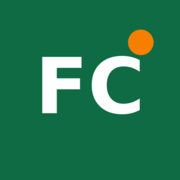
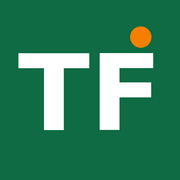
refactor: retour du nom TesFacture
- Interface, PDF, e-mails, manifest, service worker et README : « FactureCI » → « TesFacture »
- Wordmark du logo (TF) et icônes PWA régénérées
- Nom de package npm et clés techniques (__tesfactureDb, files d'attente, cache) alignés
- Données existantes renommées en base (administrateur, entreprise)

Changed region(s): [[0.5, 0.1389, 0.8611, 0.7222], [0.0833, 0.2778, 0.5, 0.75]]

diff --git a/app/page.tsx b/app/page.tsx
@@ -50,10 +50,10 @@ export default function LandingPage() {
         <div className="mx-auto flex h-16 max-w-6xl items-center justify-between px-4">
           <Link href="/" className="flex items-center gap-2">
             <span className="grid size-9 place-items-center rounded-xl bg-brand-500 text-[13px] font-black text-white">
-              FC
+              TF
             </span>
             <span className="text-[17px] font-extrabold tracking-tight">
-              Facture<span className="text-accent-500">CI</span>
+              Tes<span className="text-accent-500">Facture</span>
             </span>
           </Link>
 
@@ -85,7 +85,7 @@ export default function LandingPage() {
                 prêtes en 2 minutes.
               </h1>
               <p className="mt-4 max-w-lg text-[16px] leading-relaxed text-slate-600">
-                FactureCI crée vos factures, devis et bons de livraison depuis votre téléphone.
+                TesFacture crée vos factures, devis et bons de livraison depuis votre téléphone.
                 Paiement en tranches, montant en lettres, envoi WhatsApp, PDF professionnel.
               </p>
 
@@ -228,7 +228,7 @@ export default function LandingPage() {
 
       <footer className="border-t border-black/5 py-8">
         <div className="mx-auto flex max-w-6xl flex-col items-center justify-between gap-2 px-4 text-[12.5px] text-slate-500 sm:flex-row">
-          <p>© {new Date().getFullYear()} FactureCI · Abidjan, Côte d&apos;Ivoire</p>
+          <p>© {new Date().getFullYear()} TesFacture · Abidjan, Côte d&apos;Ivoire</p>
           <p>Montants en FCFA · Fuseau Africa/Abidjan</p>
         </div>
       </footer>

diff --git a/db/client.ts b/db/client.ts
@@ -9,8 +9,8 @@ import * as schema from "./schema";
 export type Db = NodePgDatabase<typeof schema>;
 
 type Global = typeof globalThis & {
-  __factureciDb?: Promise<Db>;
-  __factureciClose?: () => Promise<void>;
+  __tesfactureDb?: Promise<Db>;
+  __tesfactureClose?: () => Promise<void>;
 };
 
 const g = globalThis as Global;
@@ -56,7 +56,7 @@ async function createDb(): Promise<Db> {
       max: 5,
     });
     await runMigrations((sql) => pool.query(sql));
-    g.__factureciClose = async () => {
+    g.__tesfactureClose = async () => {
       await pool.end();
     };
     return drizzlePg(pool, { schema }) as unknown as Db;
@@ -69,7 +69,7 @@ async function createDb(): Promise<Db> {
   const client = new PGlite(dataDir);
   await client.waitReady;
   await runMigrations((sql) => client.exec(sql));
-  g.__factureciClose = async () => {
+  g.__tesfactureClose = async () => {
     await client.close();
   };
   return drizzlePglite(client, { schema }) as unknown as Db;
@@ -77,13 +77,13 @@ async function createDb(): Promise<Db> {
 
 /** Retourne l'instance Drizzle (initialisée et migrée une seule fois). */
 export function getDb(): Promise<Db> {
-  if (!g.__factureciDb) {
-    g.__factureciDb = createDb().catch((error) => {
-      g.__factureciDb = undefined;
+  if (!g.__tesfactureDb) {
+    g.__tesfactureDb = createDb().catch((error) => {
+      g.__tesfactureDb = undefined;
       throw error;
     });
   }
-  return g.__factureciDb;
+  return g.__tesfactureDb;
 }
 
 export { schema };

diff --git a/app/app/page.tsx b/app/app/page.tsx
@@ -22,7 +22,7 @@ import ReminderLink from "@/components/reminder-link";
 import { MonthlyBars, PaymentDonut } from "@/components/dashboard-charts";
 import { Badge, EmptyState } from "@/components/ui";
 
-export const metadata = { title: "Tableau de bord — FactureCI" };
+export const metadata = { title: "Tableau de bord — TesFacture" };
 export const dynamic = "force-dynamic";
 
 export default async function DashboardPage({
@@ -261,7 +261,7 @@ export default async function DashboardPage({
                         compact
                         clientName={row.clientName}
                         clientPhone={row.clientPhone}
-                        companyName={data.companyName || "FactureCI"}
+                        companyName={data.companyName || "TesFacture"}
                         documentNumber={row.documentNumber}
                         installmentLabel={row.label}
                         amount={row.amount}
@@ -317,7 +317,7 @@ export default async function DashboardPage({
                       compact
                       clientName={row.clientName}
                       clientPhone={row.clientPhone}
-                      companyName={data.companyName || "FactureCI"}
+                      companyName={data.companyName || "TesFacture"}
                       documentNumber={row.documentNumber}
                       installmentLabel={row.label}
                       amount={row.amount}

diff --git a/app/admin/layout.tsx b/app/admin/layout.tsx
@@ -4,7 +4,7 @@ import { ShieldCheck } from "lucide-react";
 import { LogoutButton } from "@/components/logout-button";
 
 export const dynamic = "force-dynamic";
-export const metadata = { title: "Administration — FactureCI" };
+export const metadata = { title: "Administration — TesFacture" };
 
 export default async function AdminLayout({ children }: { children: React.ReactNode }) {
   const admin = await requireAdmin();
@@ -15,10 +15,10 @@ export default async function AdminLayout({ children }: { children: React.ReactN
         <div className="mx-auto flex max-w-6xl items-center justify-between px-4 py-3">
           <div className="flex items-center gap-2">
             <span className="grid size-8 place-items-center rounded-lg bg-slate-900 text-[12px] font-black text-white">
-              FC
+              TF
             </span>
             <span className="text-[15px] font-extrabold tracking-tight">
-              Facture<span className="text-accent-500">CI</span>
+              Tes<span className="text-accent-500">Facture</span>
             </span>
             <span className="ml-1 inline-flex items-center gap-1 rounded-full bg-slate-900 px-2 py-0.5 text-[10.5px] font-bold text-white">
               <ShieldCheck className="size-3" /> Admin

diff --git a/app/layout.tsx b/app/layout.tsx
@@ -2,16 +2,16 @@ import type { Metadata, Viewport } from "next";
 import "./globals.css";
 
 export const metadata: Metadata = {
-  title: "FactureCI — Factures, devis et bons de livraison en FCFA",
+  title: "TesFacture — Factures, devis et bons de livraison en FCFA",
   description:
-    "FactureCI aide les PME, artisans et freelances de Côte d'Ivoire à créer factures, devis et bons de livraison en FCFA, avec paiement en tranches et envoi WhatsApp.",
-  applicationName: "FactureCI",
+    "TesFacture aide les PME, artisans et freelances de Côte d'Ivoire à créer factures, devis et bons de livraison en FCFA, avec paiement en tranches et envoi WhatsApp.",
+  applicationName: "TesFacture",
   manifest: "/manifest.webmanifest",
   icons: {
     icon: [{ url: "/icon-192.png", sizes: "192x192", type: "image/png" }],
     apple: [{ url: "/apple-touch-icon.png", sizes: "180x180" }],
   },
-  appleWebApp: { capable: true, statusBarStyle: "default", title: "FactureCI" },
+  appleWebApp: { capable: true, statusBarStyle: "default", title: "TesFacture" },
 };
 
 export const viewport: Viewport = {

diff --git a/app/d/[token]/page.tsx b/app/d/[token]/page.tsx
@@ -17,10 +17,10 @@ export async function generateMetadata({
 }): Promise<Metadata> {
   const { token } = await params;
   const bundle = await getDocumentByToken(token);
-  if (!bundle) return { title: "Document introuvable — FactureCI" };
+  if (!bundle) return { title: "Document introuvable — TesFacture" };
   return {
     title: `${DOC_TYPE_LABEL[bundle.doc.type as "FAC" | "DEV" | "BL"]} ${bundle.doc.number}`,
-    description: `Document partagé par ${bundle.company?.name ?? "une entreprise"} via FactureCI.`,
+    description: `Document partagé par ${bundle.company?.name ?? "une entreprise"} via TesFacture.`,
     robots: { index: false, follow: false },
   };
 }
@@ -83,7 +83,7 @@ export default async function PublicDocumentPage({
 
         <p className="mt-4 flex items-center justify-center gap-1.5 text-[11.5px] text-slate-400">
           <ShieldCheck className="size-3.5" />
-          Document consultable en lecture seule · partagé avec FactureCI
+          Document consultable en lecture seule · partagé avec TesFacture
         </p>
       </main>
     </div>

diff --git a/components/pdf/document-pdf.tsx b/components/pdf/document-pdf.tsx
@@ -183,8 +183,8 @@ export default function DocumentPdf({
     <Document
       title={`${DOC_TYPE_LABEL[doc.type]} ${doc.number}`}
       author={doc.company.name}
-      creator="FactureCI"
-      producer="FactureCI"
+      creator="TesFacture"
+      producer="TesFacture"
     >
       <Page size="A4" style={styles.page}>
         {/* En-tête */}
@@ -370,14 +370,14 @@ export default function DocumentPdf({
           </View>
         </View>
 
-        {watermark && <Text style={styles.watermark}>Créé avec FactureCI</Text>}
+        {watermark && <Text style={styles.watermark}>Créé avec TesFacture</Text>}
 
         {/* Pied de page */}
         <View style={styles.footer} fixed>
           <Text style={styles.footerText}>
             {doc.company.name}
             {doc.company.address ? ` · ${doc.company.address}` : ""}
-            {doc.company.phone ? ` · ${doc.company.phone}` : ""} · Généré avec FactureCI
+            {doc.company.phone ? ` · ${doc.company.phone}` : ""} · Généré avec TesFacture
           </Text>
         </View>
       </Page>

diff --git a/app/suspendu/page.tsx b/app/suspendu/page.tsx
@@ -2,7 +2,7 @@ import Link from "next/link";
 import { ShieldOff } from "lucide-react";
 import { LogoutButton } from "@/components/logout-button";
 
-export const metadata = { title: "Compte suspendu — FactureCI" };
+export const metadata = { title: "Compte suspendu — TesFacture" };
 
 export default function SuspenduPage() {
   return (
@@ -14,7 +14,7 @@ export default function SuspenduPage() {
         <h1 className="mt-4 text-[20px] font-extrabold tracking-tight">Compte suspendu</h1>
         <p className="mt-1.5 text-[13.5px] leading-relaxed text-slate-600">
           Votre accès est temporairement suspendu. Vos données sont conservées. Contactez
-          l&apos;administrateur FactureCI pour réactiver votre compte.
+          l&apos;administrateur TesFacture pour réactiver votre compte.
         </p>
         <div className="mt-5 space-y-2">
           <Link href="/" className="btn w-full border border-black/10 bg-white text-slate-700">

diff --git a/app/offline/page.tsx b/app/offline/page.tsx
@@ -1,7 +1,7 @@
 import Link from "next/link";
 import { CloudOff, RefreshCw } from "lucide-react";
 
-export const metadata = { title: "Hors connexion — FactureCI" };
+export const metadata = { title: "Hors connexion — TesFacture" };
 
 export default function OfflinePage() {
   return (
@@ -12,7 +12,7 @@ export default function OfflinePage() {
         </span>
         <h1 className="mt-4 text-[20px] font-extrabold tracking-tight">Vous êtes hors connexion</h1>
         <p className="mt-1.5 text-[13.5px] leading-relaxed text-slate-600">
-          FactureCI a besoin du réseau pour enregistrer un document. Vos brouillons sont conservés
+          TesFacture a besoin du réseau pour enregistrer un document. Vos brouillons sont conservés
           sur l&apos;appareil et seront envoyés automatiquement dès le retour de la connexion.
         </p>
         <Link href="/app" className="btn mt-5 w-full bg-brand-500 text-white hover:bg-brand-600">

diff --git a/app/(auth)/layout.tsx b/app/(auth)/layout.tsx
@@ -6,10 +6,10 @@ export default function AuthLayout({ children }: { children: React.ReactNode }) 
       <header className="mx-auto flex w-full max-w-md items-center justify-between px-4 pt-6">
         <Link href="/" className="flex items-center gap-2">
           <span className="grid size-9 place-items-center rounded-xl bg-brand-500 text-[13px] font-black text-white">
-            FC
+            TF
           </span>
           <span className="text-[17px] font-extrabold tracking-tight">
-            Facture<span className="text-accent-500">CI</span>
+            Tes<span className="text-accent-500">Facture</span>
           </span>
         </Link>
         <Link href="/" className="text-[13px] font-semibold text-slate-500 hover:text-slate-800">

diff --git a/scripts/seed.ts b/scripts/seed.ts
@@ -10,7 +10,7 @@ async function main() {
 
   const adminPhone = normalizePhone((process.env.ADMIN_PHONES || "0700000000").split(",")[0]);
   const password = process.env.ADMIN_PASSWORD || "Admin1234!";
-  const name = process.env.ADMIN_NAME || "Administrateur FactureCI";
+  const name = process.env.ADMIN_NAME || "Administrateur TesFacture";
 
   const db = await getDb();
 
@@ -44,7 +44,7 @@ async function main() {
       .insert(companies)
       .values({
         userId: inserted[0].id,
-        name: "FactureCI",
+        name: "TesFacture",
         rccm: "CI-ABJ-2026-B-00001",
         taxNumber: "CI-2026-000001-A",
         address: "Abidjan, Côte d'Ivoire",

diff --git a/lib/plans.ts b/lib/plans.ts
@@ -23,7 +23,7 @@ export const PLANS: Record<PlanId, PlanDefinition> = {
       "5 documents par mois",
       "1 utilisateur",
       "Factures, devis et bons de livraison",
-      "PDF avec la mention « Créé avec FactureCI »",
+      "PDF avec la mention « Créé avec TesFacture »",
     ],
   },
   pro: {
@@ -35,7 +35,7 @@ export const PLANS: Record<PlanId, PlanDefinition> = {
     features: [
       "Documents illimités",
       "Votre logo sur les documents",
-      "PDF sans mention FactureCI",
+      "PDF sans mention TesFacture",
       "Envoi par e-mail",
       "Tableau de bord complet",
       "Relances WhatsApp",
